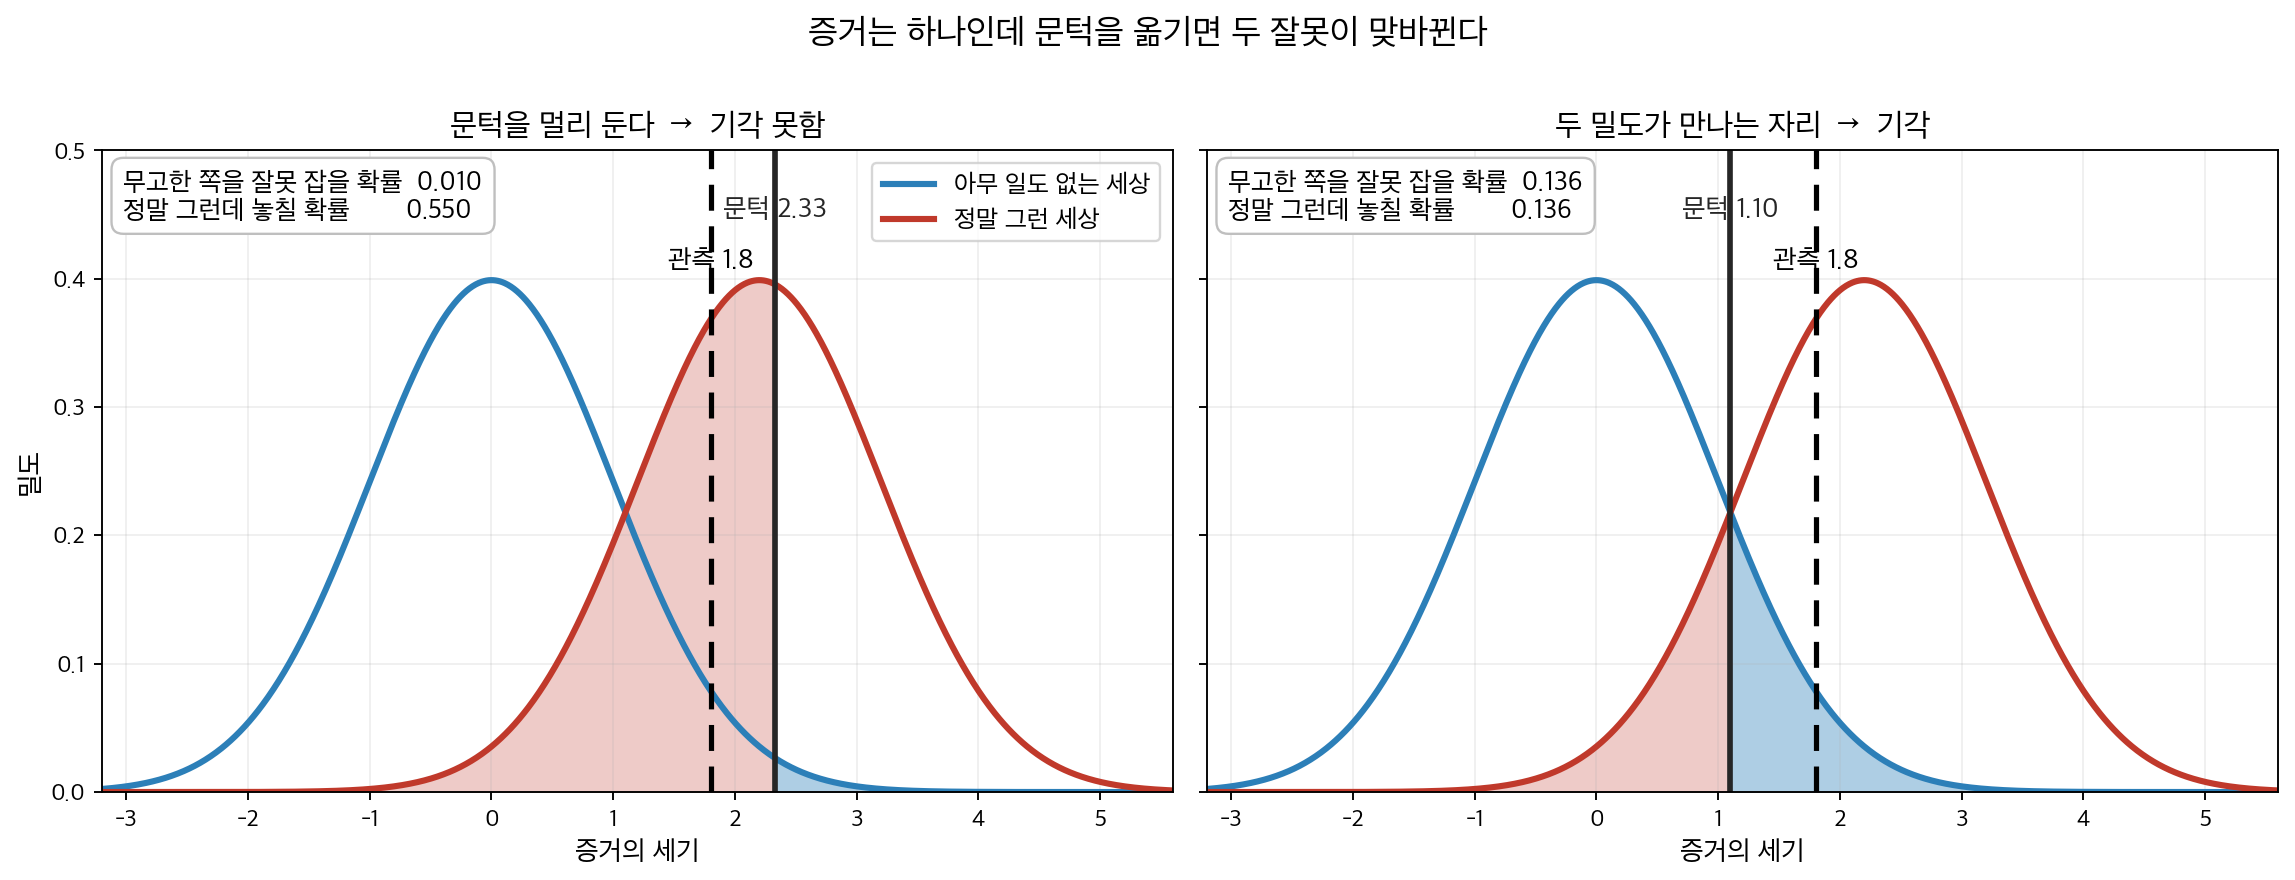
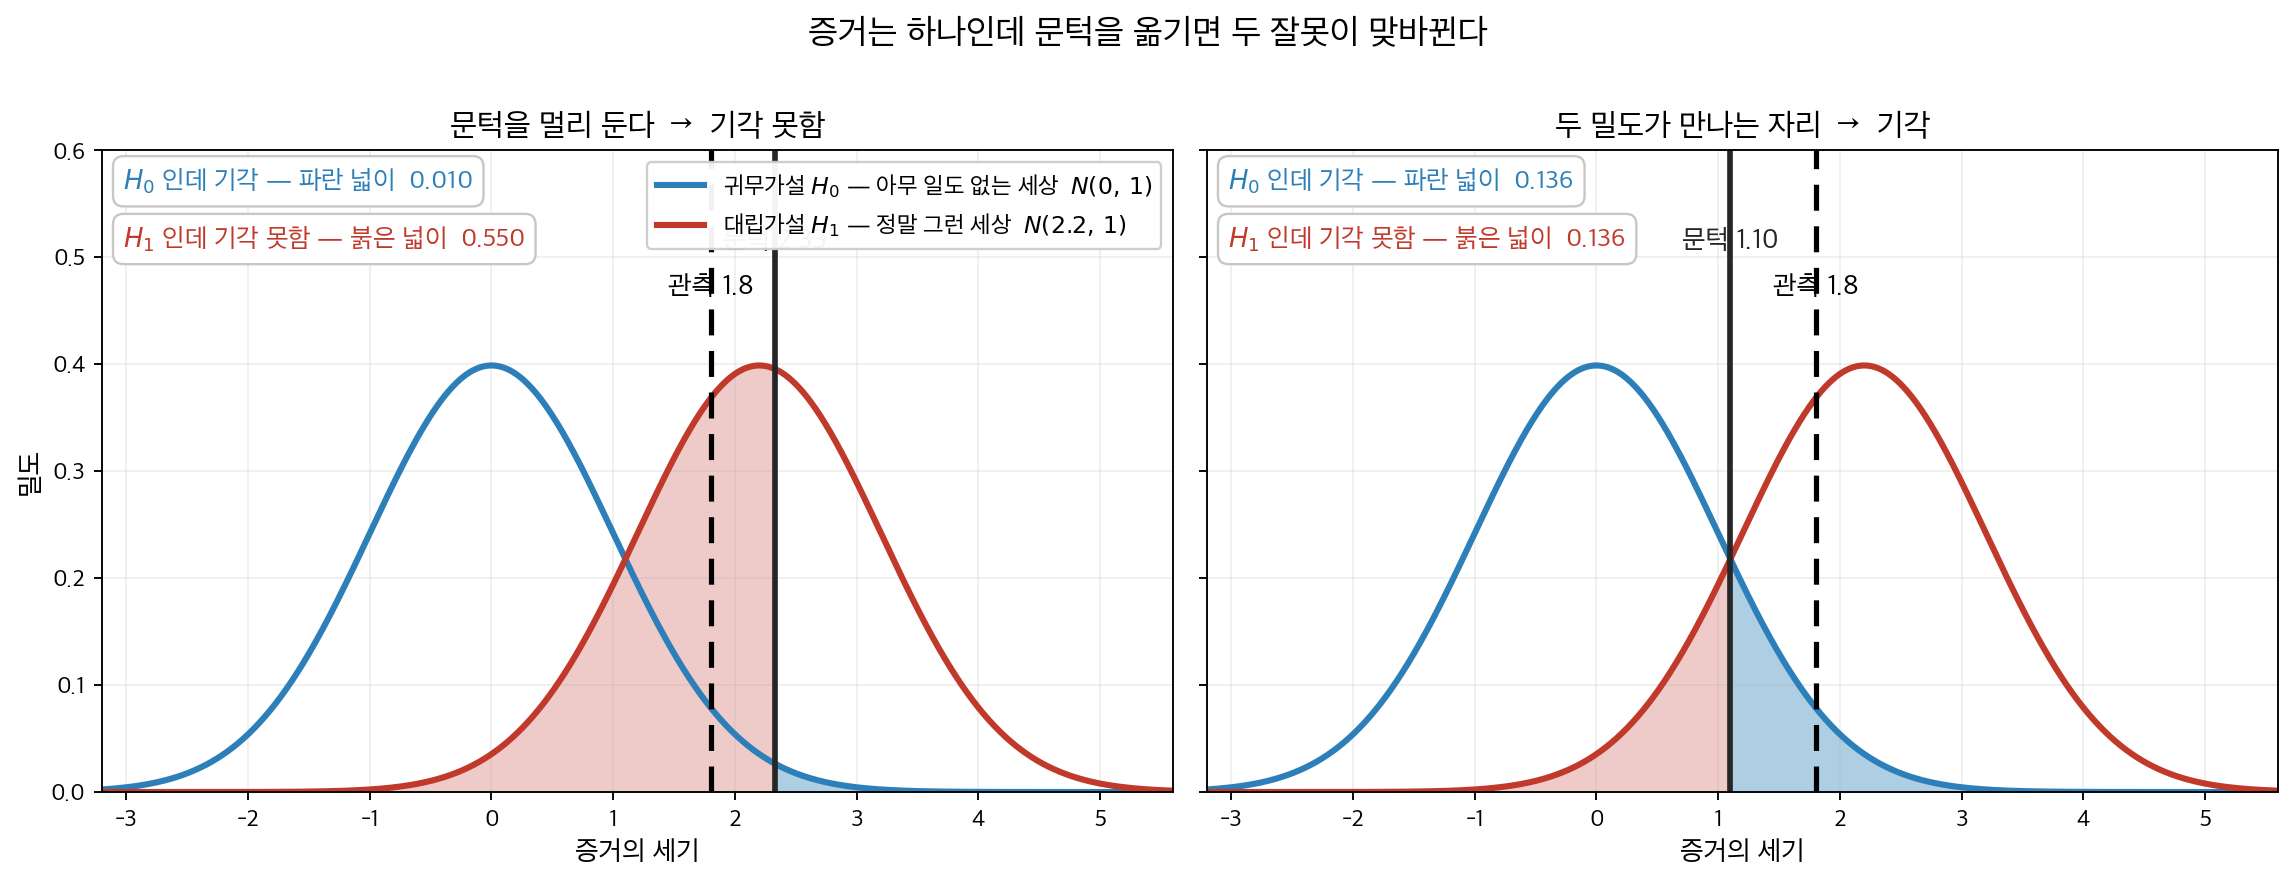
docs(ch09): 들머리 그림이 어느 곡선이 H0 이고 어느 것이 H1 인지 말하게
그림의 범례가 「아무 일도 없는 세상」·「정말 그런 세상」이라고만 적어,
파란 곡선이 귀무가설이고 붉은 곡선이 대립가설이라는 것을 그림 어디에서도
말하지 않았다. 대체텍스트와 그림 설명도 마찬가지였다.

- 범례에 「귀무가설 H0 — … N(0,1)」·「대립가설 H1 — … N(2.2,1)」
- 흰 상자 하나를 두 줄로 갈라 곡선 색과 맞췄다 —
  「H0 인데 기각 — 파란 넓이」·「H1 인데 기각 못함 — 붉은 넓이」
- 두 줄이 들어가도록 y 범위를 0.50 에서 0.60 으로, 문턱·관측 꼬리표를 올림
- 대체텍스트는 유니코드로(H₀·H₁), 그림 설명은 색과 가설을 먼저 짝지음

diff --git a/scripts/make_ch09_two_thresholds.py b/scripts/make_ch09_two_thresholds.py
@@ -50,29 +50,36 @@ C0, C1 = "#2c7fb8", "#c0392b"
 fig, axes = plt.subplots(1, 2, figsize=(13.6, 5.2), sharey=True)
 
 for ax, (name, c, a, b, verdict) in zip(axes, rows):
-    ax.plot(x, h0, color=C0, lw=2.6, label="아무 일도 없는 세상")
-    ax.plot(x, h1, color=C1, lw=2.6, label="정말 그런 세상")
+    ax.plot(x, h0, color=C0, lw=2.6,
+            label="귀무가설 $H_0$ — 아무 일도 없는 세상  $N(0,\\,1)$")
+    ax.plot(x, h1, color=C1, lw=2.6,
+            label="대립가설 $H_1$ — 정말 그런 세상  $N(2.2,\\,1)$")
     ax.fill_between(x, 0, h0, where=x >= c, color=C0, alpha=0.38)
     ax.fill_between(x, 0, h1, where=x <= c, color=C1, alpha=0.26)
     ax.axvline(c, color="0.15", lw=2.4)
-    ax.text(c, 0.445, f"문턱 {c:.2f}", ha="center", va="bottom",
+    ax.text(c, 0.505, f"문턱 {c:.2f}", ha="center", va="bottom",
             fontsize=11.5, fontweight="bold", color="0.15")
     ax.axvline(ZOBS, color="black", lw=2.2, ls=(0, (5, 3)))
-    ax.text(ZOBS, 0.405, f"관측 {ZOBS}", ha="center", va="bottom",
+    ax.text(ZOBS, 0.462, f"관측 {ZOBS}", ha="center", va="bottom",
             fontsize=11.5, fontweight="bold")
-    ax.set_ylim(0, 0.50)
+    ax.set_ylim(0, 0.60)
     ax.set_xlim(-3.2, 5.6)
     ax.set_xlabel("증거의 세기", fontsize=11.5)
     ax.set_title(f"{name}  →  {verdict}", fontsize=13.2)
-    ax.text(0.02, 0.97,
-            f"무고한 쪽을 잘못 잡을 확률  {a:.3f}\n"
-            f"정말 그런데 놓칠 확률        {b:.3f}",
-            transform=ax.transAxes, va="top", fontsize=11.2,
-            bbox=dict(boxstyle="round,pad=0.45", fc="white", ec="0.75"))
+    ax.text(0.02, 0.975,
+            f"$H_0$ 인데 기각 — 파란 넓이  {a:.3f}",
+            transform=ax.transAxes, va="top", fontsize=11.0, color=C0,
+            fontweight="bold",
+            bbox=dict(boxstyle="round,pad=0.4", fc="white", ec="0.78"))
+    ax.text(0.02, 0.885,
+            f"$H_1$ 인데 기각 못함 — 붉은 넓이  {b:.3f}",
+            transform=ax.transAxes, va="top", fontsize=11.0, color=C1,
+            fontweight="bold",
+            bbox=dict(boxstyle="round,pad=0.4", fc="white", ec="0.78"))
     ax.grid(alpha=0.2)
 
 axes[0].set_ylabel("밀도", fontsize=11.5)
-axes[0].legend(fontsize=10.8, loc="upper right")
+axes[0].legend(fontsize=10.0, loc="upper right", framealpha=0.95)
 
 fig.suptitle("증거는 하나인데 문턱을 옮기면 두 잘못이 맞바뀐다",
              fontsize=14.6, y=0.985)
